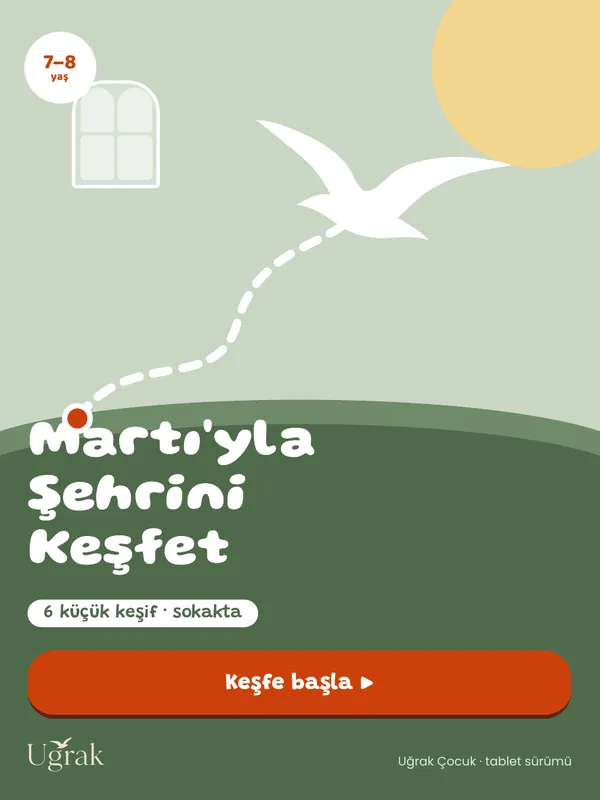
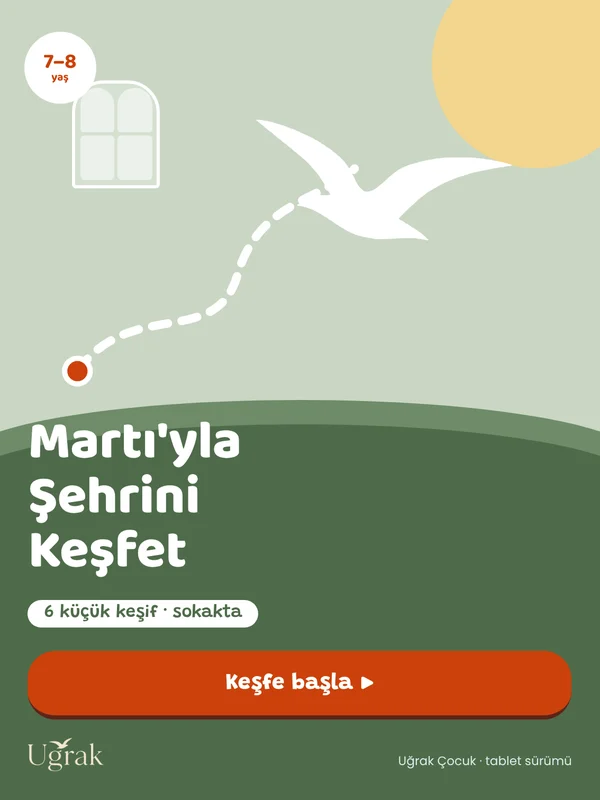
Martı: yeni kapaklar sitede (logodaki martı, düzeltilmiş yerleşim); geçici panel görselleri kaldırıldı
Claude-Session: https://claude.ai/code/session_01Q83VamjWSBJz6GmystV1Hn

diff --git a/dijital/index.html b/dijital/index.html
@@ -6,7 +6,7 @@
 <link rel="icon" href="../favicon.svg" type="image/svg+xml">
 <meta property="og:title" content="Martı'yla merakın peşine düş! · Uğrak Dijital">
 <meta property="og:description" content="7–8 yaş için dokunarak ve çizerek ilerlenen dijital etkinlik defterleri. Tablet + telefon.">
-<meta property="og:image" content="https://ugrakjournal.com/dijital/set.webp?v=3">
+<meta property="og:image" content="https://ugrakjournal.com/dijital/set.webp?v=4">
 <style>html{-webkit-text-size-adjust:100%}body{margin:0}img,video{max-width:100%}[hidden]{display:none!important}:root{padding-top:env(safe-area-inset-top,0px);padding-bottom:env(safe-area-inset-bottom,0px)}</style>
 <link rel="stylesheet" href="https://fonts.googleapis.com/css2?family=Libre+Caslon+Display&family=Libre+Caslon+Text:ital@0;1&family=Karla:wght@300;400;500;700&family=IBM+Plex+Mono:wght@400&display=swap">
 <style>
@@ -349,15 +349,15 @@ img{height:auto}
   <ul class="trust"><li>Tablet + telefon için PDF</li><li>Puan yok, yarış yok</li><li>1 iş günü içinde e-postanızda</li></ul>
  </div>
  <figure class="devices" style="margin:0">
-  <div class="tablet"><video autoplay muted loop playsinline preload="metadata" poster="demo-poster.webp?v=3" aria-label="Merak Defteri'nde kutulara dokununca işaret çıkıyor, haritaya mühür basılıyor"><source src="demo-merak.webm?v=3" type="video/webm"><source src="demo-merak.mp4?v=3" type="video/mp4"></video><img class="poster" src="demo-poster.webp?v=3" alt="Merak Defteri tablet sayfası" style="display:none"></div>
-  <div class="phone"><img src="merak-tel.webp?v=3" alt="Telefon sürümü" width="360" height="781"></div>
+  <div class="tablet"><video autoplay muted loop playsinline preload="metadata" poster="demo-poster.webp?v=4" aria-label="Merak Defteri'nde kutulara dokununca işaret çıkıyor, haritaya mühür basılıyor"><source src="demo-merak.webm?v=4" type="video/webm"><source src="demo-merak.mp4?v=4" type="video/mp4"></video><img class="poster" src="demo-poster.webp?v=4" alt="Merak Defteri tablet sayfası" style="display:none"></div>
+  <div class="phone"><img src="merak-tel.webp?v=4" alt="Telefon sürümü" width="360" height="781"></div>
   <figcaption class="devcap">Gerçek PDF · Merak Defteri, tablet ve telefon sürümü</figcaption>
  </figure>
 </div></section>
 
 <section id="set"><div class="wrap">
  <div class="setbox">
-  <div class="fan"><img src="kelime-0.webp?v=3" alt="" width="600" height="800"><img src="sehir-0.webp?v=3" alt="" width="600" height="800"><img src="merak-0.webp?v=3" alt="Üç defterin kapakları" width="600" height="800"></div>
+  <div class="fan"><img src="kelime-0.webp?v=4" alt="" width="600" height="800"><img src="sehir-0.webp?v=4" alt="" width="600" height="800"><img src="merak-0.webp?v=4" alt="Üç defterin kapakları" width="600" height="800"></div>
   <div style="display:grid;gap:12px;min-width:0">
    <span><span class="badge">En avantajlı</span></span>
    <h2 style="margin:0;font-size:clamp(30px,4vw,44px);line-height:1.08">Üç defter bir arada</h2>
@@ -371,42 +371,42 @@ img{height:auto}
 <section id="nasil"><div class="wrap">
  <div class="sec-head"><span class="label">01 · Nasıl çalışır</span><div><h2>Aç, dokun, mühürle</h2></div></div>
  <ol class="steps3">
-  <li><img src="merak-0.webp?v=3" alt="Defterin kapağı" loading="lazy" width="600" height="800"><span class="n">1</span><h3>Aç</h3><p>PDF'i tablette ya da telefonda açın. iPad'de Kitaplar, Android'de Xodo yeterli.</p></li>
-  <li><img src="merak-1.webp?v=3" alt="Gizli Şehir sayfası" loading="lazy" width="600" height="800"><span class="n">2</span><h3>Dokun, çiz</h3><p>Bulduğunu işaretle, parmakla ya da kalemle çiz. Tek doğru renk ya da cevap yok.</p></li>
-  <li><img src="demo-muhur.webp?v=3" alt="Haritada basılmış mühür" loading="lazy" width="600" height="800"><span class="n">3</span><h3>Mühürle</h3><p>Görev bitince haritaya dön, mührünü bas. Harita dolunca sertifika seni bekliyor.</p></li>
+  <li><img src="merak-0.webp?v=4" alt="Defterin kapağı" loading="lazy" width="600" height="800"><span class="n">1</span><h3>Aç</h3><p>PDF'i tablette ya da telefonda açın. iPad'de Kitaplar, Android'de Xodo yeterli.</p></li>
+  <li><img src="merak-1.webp?v=4" alt="Gizli Şehir sayfası" loading="lazy" width="600" height="800"><span class="n">2</span><h3>Dokun, çiz</h3><p>Bulduğunu işaretle, parmakla ya da kalemle çiz. Tek doğru renk ya da cevap yok.</p></li>
+  <li><img src="demo-muhur.webp?v=4" alt="Haritada basılmış mühür" loading="lazy" width="600" height="800"><span class="n">3</span><h3>Mühürle</h3><p>Görev bitince haritaya dön, mührünü bas. Harita dolunca sertifika seni bekliyor.</p></li>
  </ol>
 </div></section>
 
 <section id="defterler"><div class="wrap">
  <div class="sec-head"><span class="label">02 · Defterler</span><div><h2>Üç defter, bir martı</h2><span class="en">Görseller defterlerin gerçek sayfalarıdır</span></div></div>
  <div class="prods"><article class="prod" id="merak">
- <div class="prod-cover"><img src="merak-0.webp?v=3" alt="Martı'nın Merak Defteri kapağı" loading="lazy" width="600" height="800"><img class="tel" src="merak-tel.webp?v=3" alt="Martı'nın Merak Defteri telefon sürümü" loading="lazy" width="360" height="781"></div>
+ <div class="prod-cover"><img src="merak-0.webp?v=4" alt="Martı'nın Merak Defteri kapağı" loading="lazy" width="600" height="800"><img class="tel" src="merak-tel.webp?v=4" alt="Martı'nın Merak Defteri telefon sürümü" loading="lazy" width="360" height="781"></div>
  <div class="prod-txt"><span class="label">Tablet + telefon · 7–8 yaş · 9 kapı · 9 gizli iz</span><h3>Martı'nın Merak Defteri</h3><p>Rüzgâr Martı'nın merak izlerini dokuz kapının ardına savurdu. Her kapıda başka bir oyun var; çocuk izi bulunca haritaya mühür basar.</p><ul class="ticks"><li>Gizli şehir, yanlış tahmin, fark bulma, şifreli mesaj, labirent</li><li>Yarım hikâye, kendi gökyüzün, yarım dünya, başka bir gezegen</li><li>Cevaplar sonda, mühürlü zarfın arkasında</li></ul>
   <div class="buyrow"><span class="price">149 TL</span><a class="btn" href="https://www.shopier.com/ugrakjournal/52780338" target="_blank" rel="noopener">Satın al ▶</a></div></div>
- <div class="gal" role="region" aria-label="Martı'nın Merak Defteri iç sayfalar" tabindex="0"><figure><img src="merak-1.webp?v=3" alt="Martı'nın Merak Defteri: Gizli Şehir" loading="lazy" width="600" height="800"><figcaption>Gizli Şehir</figcaption></figure><figure><img src="merak-2.webp?v=3" alt="Martı'nın Merak Defteri: Hangisi Değişti?" loading="lazy" width="600" height="800"><figcaption>Hangisi Değişti?</figcaption></figure><figure><img src="merak-3.webp?v=3" alt="Martı'nın Merak Defteri: Gizli Mesaj" loading="lazy" width="600" height="800"><figcaption>Gizli Mesaj</figcaption></figure><figure><img src="merak-4.webp?v=3" alt="Martı'nın Merak Defteri: Yuvaya Dönüş" loading="lazy" width="600" height="800"><figcaption>Yuvaya Dönüş</figcaption></figure><figure><img src="merak-5.webp?v=3" alt="Martı'nın Merak Defteri: Senin Gökyüzün" loading="lazy" width="600" height="800"><figcaption>Senin Gökyüzün</figcaption></figure></div>
+ <div class="gal" role="region" aria-label="Martı'nın Merak Defteri iç sayfalar" tabindex="0"><figure><img src="merak-1.webp?v=4" alt="Martı'nın Merak Defteri: Gizli Şehir" loading="lazy" width="600" height="800"><figcaption>Gizli Şehir</figcaption></figure><figure><img src="merak-2.webp?v=4" alt="Martı'nın Merak Defteri: Hangisi Değişti?" loading="lazy" width="600" height="800"><figcaption>Hangisi Değişti?</figcaption></figure><figure><img src="merak-3.webp?v=4" alt="Martı'nın Merak Defteri: Gizli Mesaj" loading="lazy" width="600" height="800"><figcaption>Gizli Mesaj</figcaption></figure><figure><img src="merak-4.webp?v=4" alt="Martı'nın Merak Defteri: Yuvaya Dönüş" loading="lazy" width="600" height="800"><figcaption>Yuvaya Dönüş</figcaption></figure><figure><img src="merak-5.webp?v=4" alt="Martı'nın Merak Defteri: Senin Gökyüzün" loading="lazy" width="600" height="800"><figcaption>Senin Gökyüzün</figcaption></figure></div>
 </article>
 <article class="prod" id="kelime">
- <div class="prod-cover"><img src="kelime-0.webp?v=3" alt="Martı'yla İlk Kelimeler · İngilizce kapağı" loading="lazy" width="600" height="800"><img class="tel" src="kelime-tel.webp?v=3" alt="Martı'yla İlk Kelimeler · İngilizce telefon sürümü" loading="lazy" width="360" height="781"></div>
+ <div class="prod-cover"><img src="kelime-0.webp?v=4" alt="Martı'yla İlk Kelimeler · İngilizce kapağı" loading="lazy" width="600" height="800"><img class="tel" src="kelime-tel.webp?v=4" alt="Martı'yla İlk Kelimeler · İngilizce telefon sürümü" loading="lazy" width="360" height="781"></div>
  <div class="prod-txt"><span class="label">Tablet + telefon · 7–8 yaş · 24 kelime · 9 oyun</span><h3>Martı'yla İlk Kelimeler · İngilizce</h3><p>Şehirde, doğada ve günlük hayatta karşına çıkan 24 İngilizce kelime. Resimli kartlar, eşleştirme, kayıp harfler, Martı'nın günlüğü ve kelime avı.</p><ul class="ticks"><li>Kelimeyi resimle tanıma ve eşleştirme</li><li>Kayıp harfler kutulara yazılır, doğru kelime işaretlenir</li><li>Görsel çalışmadır; telaffuz öğretimi değildir. Okunuşu bir sözlük uygulamasından birlikte dinleyebilirsiniz.</li></ul>
   <div class="buyrow"><span class="price">119 TL</span><a class="btn" href="https://www.shopier.com/ugrakjournal/52785283" target="_blank" rel="noopener">Satın al ▶</a></div></div>
- <div class="gal" role="region" aria-label="Martı'yla İlk Kelimeler · İngilizce iç sayfalar" tabindex="0"><figure><img src="kelime-1.webp?v=3" alt="Martı'yla İlk Kelimeler · İngilizce: Kelime kartları" loading="lazy" width="600" height="800"><figcaption>Kelime kartları</figcaption></figure><figure><img src="kelime-2.webp?v=3" alt="Martı'yla İlk Kelimeler · İngilizce: Eşleştir" loading="lazy" width="600" height="800"><figcaption>Eşleştir</figcaption></figure><figure><img src="kelime-3.webp?v=3" alt="Martı'yla İlk Kelimeler · İngilizce: Kayıp harfler" loading="lazy" width="600" height="800"><figcaption>Kayıp harfler</figcaption></figure><figure><img src="kelime-4.webp?v=3" alt="Martı'yla İlk Kelimeler · İngilizce: Kelime avı" loading="lazy" width="600" height="800"><figcaption>Kelime avı</figcaption></figure><figure><img src="kelime-5.webp?v=3" alt="Martı'yla İlk Kelimeler · İngilizce: Kelime haritası" loading="lazy" width="600" height="800"><figcaption>Kelime haritası</figcaption></figure></div>
+ <div class="gal" role="region" aria-label="Martı'yla İlk Kelimeler · İngilizce iç sayfalar" tabindex="0"><figure><img src="kelime-1.webp?v=4" alt="Martı'yla İlk Kelimeler · İngilizce: Kelime kartları" loading="lazy" width="600" height="800"><figcaption>Kelime kartları</figcaption></figure><figure><img src="kelime-2.webp?v=4" alt="Martı'yla İlk Kelimeler · İngilizce: Eşleştir" loading="lazy" width="600" height="800"><figcaption>Eşleştir</figcaption></figure><figure><img src="kelime-3.webp?v=4" alt="Martı'yla İlk Kelimeler · İngilizce: Kayıp harfler" loading="lazy" width="600" height="800"><figcaption>Kayıp harfler</figcaption></figure><figure><img src="kelime-4.webp?v=4" alt="Martı'yla İlk Kelimeler · İngilizce: Kelime avı" loading="lazy" width="600" height="800"><figcaption>Kelime avı</figcaption></figure><figure><img src="kelime-5.webp?v=4" alt="Martı'yla İlk Kelimeler · İngilizce: Kelime haritası" loading="lazy" width="600" height="800"><figcaption>Kelime haritası</figcaption></figure></div>
 </article>
 <article class="prod" id="sehir">
- <div class="prod-cover"><img src="sehir-0.webp?v=3" alt="Martı'yla Şehrini Keşfet kapağı" loading="lazy" width="600" height="800"><img class="tel" src="sehir-tel.webp?v=3" alt="Martı'yla Şehrini Keşfet telefon sürümü" loading="lazy" width="360" height="781"></div>
+ <div class="prod-cover"><img src="sehir-0.webp?v=4" alt="Martı'yla Şehrini Keşfet kapağı" loading="lazy" width="600" height="800"><img class="tel" src="sehir-tel.webp?v=4" alt="Martı'yla Şehrini Keşfet telefon sürümü" loading="lazy" width="360" height="781"></div>
  <div class="prod-txt"><span class="label">Tablet + telefon · 7–8 yaş · 6 küçük keşif · sokakta</span><h3>Martı'yla Şehrini Keşfet</h3><p>Birçok şehirde oynanabilen altı küçük keşif: pencere, kaldırım deseni, gölge, tekrar eden şekil, yakından-uzaktan bakma ve ses avı.</p><ul class="ticks"><li>Kaldırımda, bir büyüğüyle birlikte</li><li>Biten keşif haritaya mühürlenir; sonunda Şehir Kâşifi sertifikası</li><li>Güvenli bir yer bulamadığınız görevi atlayın</li></ul>
   <div class="buyrow"><span class="price">99 TL</span><a class="btn" href="https://www.shopier.com/ugrakjournal/52785296" target="_blank" rel="noopener">Satın al ▶</a></div></div>
- <div class="gal" role="region" aria-label="Martı'yla Şehrini Keşfet iç sayfalar" tabindex="0"><figure><img src="sehir-1.webp?v=3" alt="Martı'yla Şehrini Keşfet: Martı’nın haritası" loading="lazy" width="600" height="800"><figcaption>Martı’nın haritası</figcaption></figure><figure><img src="sehir-2.webp?v=3" alt="Martı'yla Şehrini Keşfet: Üç Pencere" loading="lazy" width="600" height="800"><figcaption>Üç Pencere</figcaption></figure><figure><img src="sehir-3.webp?v=3" alt="Martı'yla Şehrini Keşfet: Gölge Avı" loading="lazy" width="600" height="800"><figcaption>Gölge Avı</figcaption></figure><figure><img src="sehir-4.webp?v=3" alt="Martı'yla Şehrini Keşfet: Ses Avı" loading="lazy" width="600" height="800"><figcaption>Ses Avı</figcaption></figure><figure><img src="sehir-5.webp?v=3" alt="Martı'yla Şehrini Keşfet: Şehir Kâşifi" loading="lazy" width="600" height="800"><figcaption>Şehir Kâşifi</figcaption></figure></div>
+ <div class="gal" role="region" aria-label="Martı'yla Şehrini Keşfet iç sayfalar" tabindex="0"><figure><img src="sehir-1.webp?v=4" alt="Martı'yla Şehrini Keşfet: Martı’nın haritası" loading="lazy" width="600" height="800"><figcaption>Martı’nın haritası</figcaption></figure><figure><img src="sehir-2.webp?v=4" alt="Martı'yla Şehrini Keşfet: Üç Pencere" loading="lazy" width="600" height="800"><figcaption>Üç Pencere</figcaption></figure><figure><img src="sehir-3.webp?v=4" alt="Martı'yla Şehrini Keşfet: Gölge Avı" loading="lazy" width="600" height="800"><figcaption>Gölge Avı</figcaption></figure><figure><img src="sehir-4.webp?v=4" alt="Martı'yla Şehrini Keşfet: Ses Avı" loading="lazy" width="600" height="800"><figcaption>Ses Avı</figcaption></figure><figure><img src="sehir-5.webp?v=4" alt="Martı'yla Şehrini Keşfet: Şehir Kâşifi" loading="lazy" width="600" height="800"><figcaption>Şehir Kâşifi</figcaption></figure></div>
 </article></div>
 </div></section>
 
 <section id="ornek"><div class="wrap">
  <div class="sample">
-  <img src="merak-1.webp?v=3" alt="Gizli Şehir örnek sayfası" loading="lazy" width="600" height="800">
+  <img src="merak-1.webp?v=4" alt="Gizli Şehir örnek sayfası" loading="lazy" width="600" height="800">
   <div style="display:grid;gap:12px;min-width:0">
    <span class="label">Ücretsiz örnek</span>
    <h2 style="margin:0;font-size:clamp(26px,3.4vw,36px)">Önce bir kapıyı deneyin</h2>
    <p style="margin:0">Merak Defteri'nin ilk kapısı "Gizli Şehir": 8 şey saklı, bulunca dokunup işaretlenir. 3 sayfalık PDF, e-posta istemeden indirilir. Tablette açıp çocuğunuzla birlikte deneyin.</p>
-   <a class="btn ghost" href="Marti-Merak-Defteri-ucretsiz-ornek.pdf?v=3" download style="justify-self:start">Örnek sayfayı indir (PDF)</a>
+   <a class="btn ghost" href="Marti-Merak-Defteri-ucretsiz-ornek.pdf?v=4" download style="justify-self:start">Örnek sayfayı indir (PDF)</a>
    <p class="note" style="margin:0">Örnek dosyadır; yeniden satılamaz, izinsiz çoğaltılamaz.</p>
   </div>
  </div>

diff --git a/index.html b/index.html
@@ -378,7 +378,7 @@ footer p{font-family:var(--f-serif);font-style:italic;color:var(--muted)}
           </div>
         </article>
         <article id="marti-defterleri" style="display:grid;grid-template-columns:minmax(0,1fr) minmax(0,1.1fr);gap:40px;align-items:center;border-top:1px solid var(--rule);padding-top:40px">
-          <div class="shot" style="aspect-ratio:1200/630;max-width:100%"><img src="dijital/set.webp" width="1200" height="630" loading="lazy" alt="Martı'nın Defterleri: Merak Defteri, İlk Kelimeler ve Şehrini Keşfet kapakları" style="width:100%;height:auto"></div>
+          <div class="shot" style="aspect-ratio:1200/630;max-width:100%"><img src="dijital/set.webp?v=4" width="1200" height="630" loading="lazy" alt="Martı'nın Defterleri: Merak Defteri, İlk Kelimeler ve Şehrini Keşfet kapakları" style="width:100%;height:auto"></div>
           <div style="display:grid;gap:16px;min-width:0">
             <div class="meta" style="display:flex;justify-content:space-between;gap:16px;flex-wrap:wrap"><span class="label">Uğrak Çocuk · Dijital</span><span class="label">Satışta</span></div>
             <div><h3>Martı'nın Defterleri</h3><span class="en">Martı's notebooks for curious kids</span></div>
